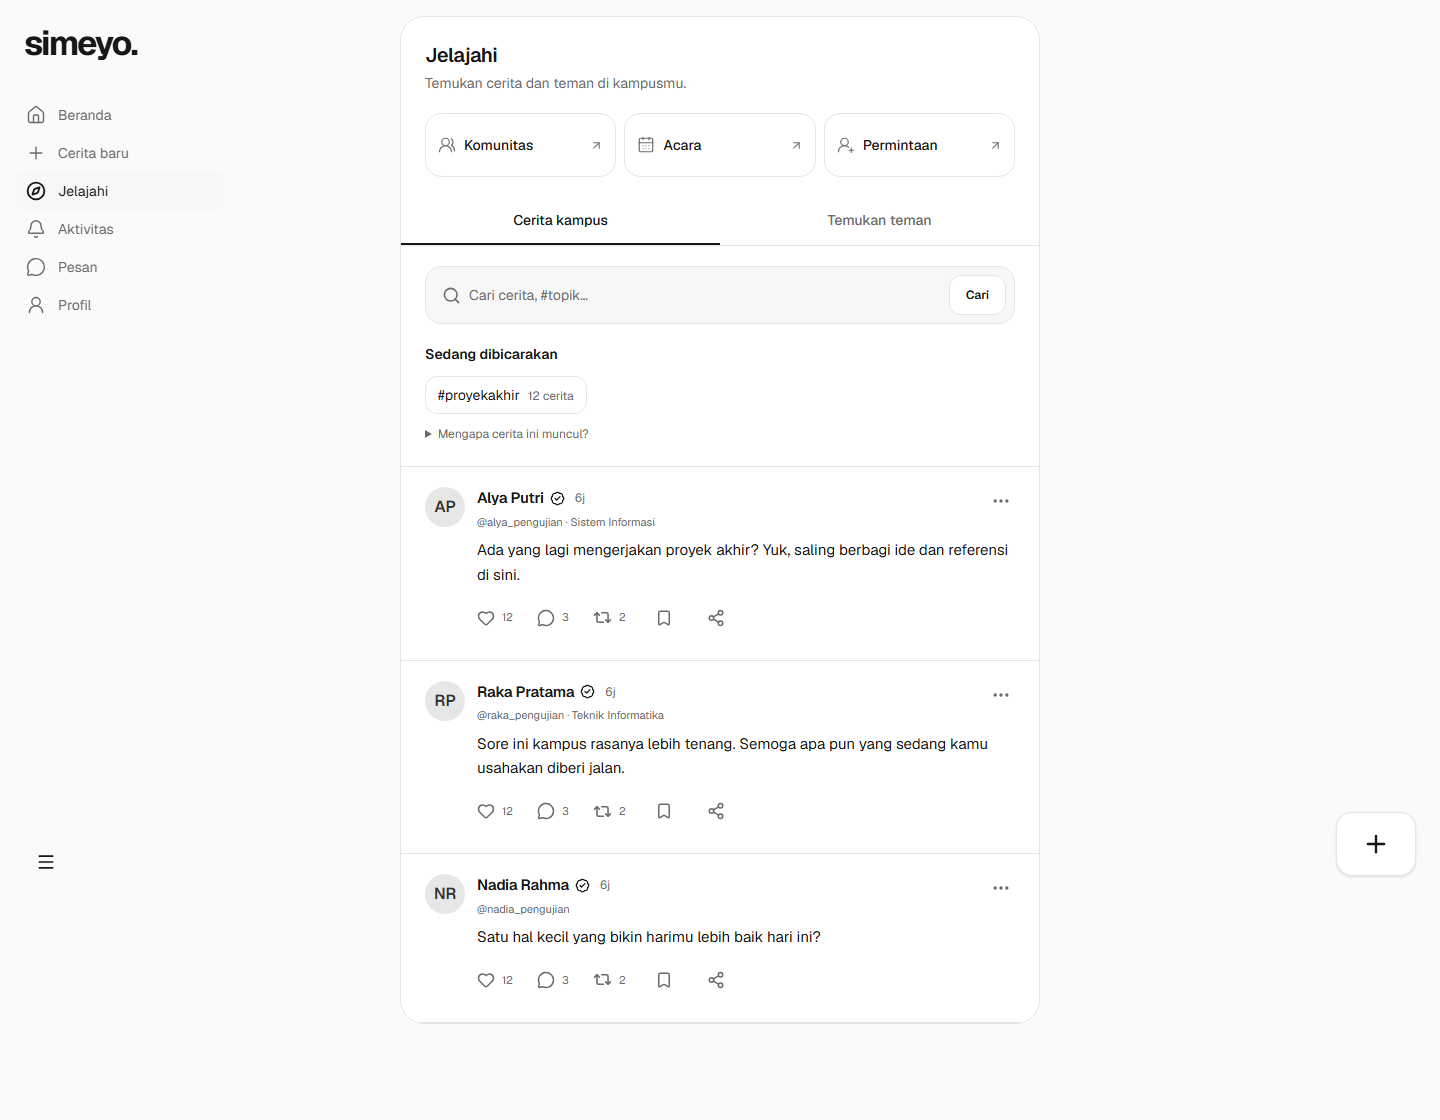
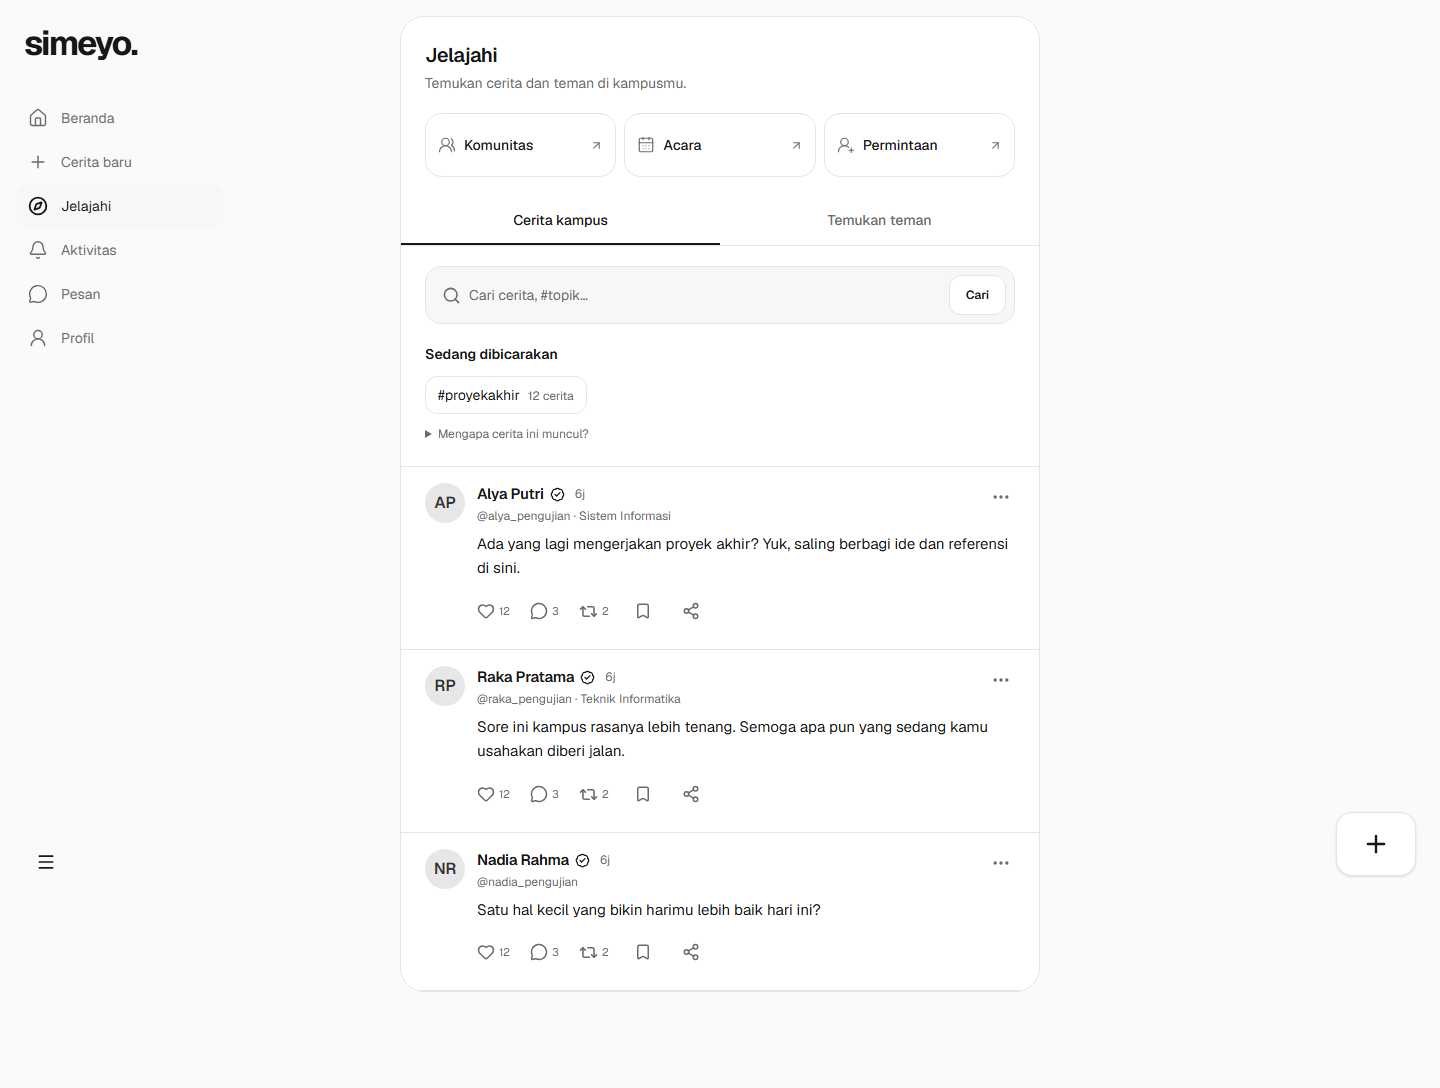
fix: unify form styling and responsive social layouts

diff --git a/apps/web/tests/feed-experience.spec.ts b/apps/web/tests/feed-experience.spec.ts
@@ -185,7 +185,7 @@ test("messaging supports a split inbox, recipient selection and safe send retry 
   await expect(page.getByLabel("Tulis pesan", { exact: true })).toHaveValue("");
   await expect(page.getByRole("log").getByText("Halo Raka!")).toBeVisible();
   expect(await page.evaluate(() => document.documentElement.scrollWidth <= window.innerWidth)).toBe(true);
-  await page.screenshot({ path: path.resolve(process.cwd(), "../../docs/testing/screenshots/messages-mobile-dark.png") });
+  await page.screenshot({ path: path.resolve(process.cwd(), "../../docs/testing/screenshots/messages-mobile-dark.png"), animations: "disabled" });
   expect((await new AxeBuilder({ page }).analyze()).violations).toEqual([]);
   await page.getByRole("link", { name: "Semua pesan", exact: true }).click();
   await expect(page.getByLabel("Cari percakapan", { exact: true })).toBeVisible();
@@ -249,6 +249,41 @@ test("revoked messaging access hides cached history and composer", async ({ page
   await expect(page.getByLabel("Tulis pesan", { exact: true })).toHaveCount(0);
 });
 
+test("mobile chat fits above navigation and campus form controls have consistent styling", async ({ page }) => {
+  await fixtures(page);
+  await page.route("**/api/v1/conversations", route => route.fulfill({ json: { data: [], next_cursor: null } }));
+  await page.route("**/api/v1/conversations/42/messages", route => route.fulfill({ json: { data: [], user: { id: 902, name: "Raka Pratama", username: "raka_pengujian" }, can_send: true, next_cursor: null } }));
+  for (const viewport of [{ width: 320, height: 667 }, { width: 390, height: 844 }, { width: 844, height: 390 }]) {
+    await page.setViewportSize(viewport);
+    await page.goto("/messages/42");
+    await expect(page.getByLabel("Tulis pesan", { exact: true })).toBeVisible();
+    const send = await page.getByRole("button", { name: "Kirim pesan", exact: true }).boundingBox();
+    const navigation = await page.getByRole("navigation", { name: "Navigasi seluler" }).isVisible()
+      ? await page.getByRole("navigation", { name: "Navigasi seluler" }).boundingBox() : null;
+    expect(send!.y + send!.height).toBeLessThanOrEqual(navigation?.y ?? viewport.height);
+    expect(await page.evaluate(() => document.documentElement.scrollHeight)).toBeLessThanOrEqual(viewport.height + 1);
+    if (viewport.width >= 768) await expect(page.getByRole("navigation", { name: "Navigasi utama" }).getByRole("link", { name: "Pesan", exact: true })).toHaveAttribute("aria-current", "page");
+    await page.screenshot({ path: path.resolve(process.cwd(), `../../docs/testing/screenshots/chat-fit-${viewport.width}.png`), animations: "disabled" });
+  }
+  await page.setViewportSize({ width: 390, height: 844 });
+  await page.goto("/communities");
+  await page.getByRole("button", { name: "Komunitas baru", exact: true }).click();
+  const input = page.getByLabel("Nama komunitas");
+  await expect(input).toBeVisible();
+  const style = await input.evaluate(element => { const style = getComputedStyle(element); return { border: style.borderTopWidth, radius: style.borderRadius, font: style.fontSize }; });
+  expect(style).toEqual({ border: "1px", radius: "12px", font: "16px" });
+  await page.screenshot({ path: path.resolve(process.cwd(), "../../docs/testing/screenshots/community-form-mobile.png"), animations: "disabled" });
+  await page.goto("/home");
+  await page.getByRole("button", { name: "Tulis cerita", exact: true }).click();
+  const dialog = page.getByRole("dialog", { name: "Cerita baru", exact: true });
+  await expect(dialog).toBeVisible();
+  const bounds = await dialog.boundingBox();
+  expect(bounds!.x).toBe(0);
+  expect(Math.round(bounds!.y + bounds!.height)).toBe(844);
+  await expect(dialog.getByRole("button", { name: "Bagikan", exact: true })).toBeVisible();
+  await page.screenshot({ path: path.resolve(process.cwd(), "../../docs/testing/screenshots/composer-mobile-sheet.png"), animations: "disabled" });
+});
+
 test("explore stays readable across sizes and supports topic search and people", async ({ page }) => {
   await fixtures(page);
   await page.goto("/explore");
@@ -260,7 +295,7 @@ test("explore stays readable across sizes and supports topic search and people",
       await page.evaluate((theme) => document.documentElement.dataset.theme = theme, theme);
       expect(await page.evaluate(() => document.documentElement.scrollWidth <= window.innerWidth)).toBe(true);
       await expect(page.getByRole("link", { name: "Komunitas", exact: true })).toBeVisible();
-      await page.screenshot({ path: path.resolve(process.cwd(), `../../docs/testing/screenshots/explore-${width}-${theme}.png`), fullPage: true });
+      await page.screenshot({ path: path.resolve(process.cwd(), `../../docs/testing/screenshots/explore-${width}-${theme}.png`), fullPage: true, animations: "disabled" });
     }
   }
   await page.getByRole("button", { name: "#proyekakhir" }).click();
@@ -314,6 +349,7 @@ test("centered feed, compact composer, keyboard tabs and menus work across sizes
             `../../docs/testing/screenshots/feed-redesign-${width}-${theme}.png`,
           ),
           fullPage: true,
+          animations: "disabled",
         });
     }
   }
@@ -334,7 +370,7 @@ test("centered feed, compact composer, keyboard tabs and menus work across sizes
   const menuBox = await page.getByRole("menu", { name: "Menu akun" }).boundingBox();
   expect(menuBox!.y).toBeGreaterThanOrEqual(0);
   expect(menuBox!.y + menuBox!.height).toBeLessThan(box!.y);
-  await page.screenshot({ path: "../../docs/testing/screenshots/sidebar-bottom-menu.png" });
+  await page.screenshot({ path: "../../docs/testing/screenshots/sidebar-bottom-menu.png", animations: "disabled" });
   await page.getByRole("menuitem", { name: "Ringkas navigasi", exact: true }).click();
   const sidebar = page.getByRole("complementary", { name: "Navigasi akun", exact: true });
   expect((await sidebar.boundingBox())!.width).toBe(96);
@@ -463,6 +499,7 @@ test("modal keeps a draft until discard is confirmed and profile uses the same c
       "../../docs/testing/screenshots/feed-composer-modal.png",
     ),
     fullPage: true,
+    animations: "disabled",
   });
   await dialog.getByRole("button", { name: "Batal", exact: true }).click();
   await discard
@@ -486,6 +523,7 @@ test("modal keeps a draft until discard is confirmed and profile uses the same c
       "../../docs/testing/screenshots/profile-redesign-desktop.png",
     ),
     fullPage: true,
+    animations: "disabled",
   });
   await page.getByRole("button", { name: "Tulis cerita", exact: true }).click();
   await expect(dialog).toBeVisible();

diff --git a/apps/web/src/app/globals.css b/apps/web/src/app/globals.css
@@ -11,6 +11,8 @@
   --accent-hover: #333333;
   --accent-foreground: #ffffff;
   --avatar-foreground: #333333;
+  --mobile-nav-height: calc(72px + env(safe-area-inset-bottom, 0px));
+  color-scheme: light;
 }
 
 @theme inline {
@@ -40,16 +42,20 @@ body {
   font-family: var(--font-geist-sans), Arial, Helvetica, sans-serif;
 }
 
-.message-workspace { min-height: calc(100dvh - 160px); }
-.message-detail { flex-direction: column; height: calc(100dvh - 160px); }
+.message-frame { display: flex; height: 100dvh; flex-direction: column; padding-bottom: var(--mobile-nav-height); }
+.message-frame > main { min-height: 0; flex: 1; }
+.message-workspace { height: 100%; min-height: 0; }
+.message-detail { min-height: 0; flex-direction: column; height: 100%; overflow: hidden; }
+.message-list { min-height: 0; height: 100%; overflow-y: auto; }
+.mobile-header { height: 64px; flex-shrink: 0; }
+.mobile-header > a { font-size: 28px; }
+.mobile-navigation { height: var(--mobile-nav-height); padding: 8px 8px calc(8px + env(safe-area-inset-bottom, 0px)); }
 @media (min-width: 768px) {
   .app-frame[data-messaging="true"] { padding-left: 0; }
-  .message-frame { margin-left: 96px; }
-  .message-workspace { min-height: 100dvh; }
-  .message-detail { height: 100dvh; }
+  .message-frame { margin-left: 96px; padding-bottom: 0; }
 }
 @media (min-width: 1024px) {
-  .message-workspace { display: grid; grid-template-columns: 340px minmax(0, 1fr); height: 100dvh; }
+  .message-workspace { display: grid; grid-template-columns: 340px minmax(0, 1fr); grid-template-rows: minmax(0, 1fr); }
   .message-list { overflow-y: auto; border-right: 1px solid var(--border); }
 }
 @media (min-width: 1280px) {
@@ -128,6 +134,30 @@ button:disabled {
   outline: 2px solid color-mix(in srgb, var(--foreground) 15%, transparent);
   outline-offset: 0;
 }
+@layer components {
+  .input {
+    display: block;
+    width: 100%;
+    min-height: 44px;
+    border: 1px solid var(--border);
+    border-radius: 12px;
+    background: var(--surface);
+    color: var(--foreground);
+    padding: 11px 14px;
+    font-size: 16px;
+    line-height: 1.5;
+    transition: border-color 160ms ease, box-shadow 160ms ease;
+  }
+  .input::placeholder { color: var(--muted); }
+  .input:focus-visible {
+    border-color: var(--foreground);
+    outline: none;
+    box-shadow: 0 0 0 3px color-mix(in srgb, var(--foreground) 10%, transparent);
+  }
+  .input:disabled { opacity: .55; cursor: not-allowed; }
+  select.input { padding-right: 32px; }
+  @media (min-width: 768px) { .input { font-size: 14px; } }
+}
 .form-label {
   display: block;
   margin-bottom: 8px;
@@ -196,17 +226,17 @@ button:disabled {
   .app-frame:not([data-collapsed="true"]) .sidebar-wordmark { display: block; }
   .app-frame:not([data-collapsed="true"]) .sidebar-mark { display: none; }
   .app-frame:not([data-collapsed="true"]) .rail-label { display: inline; }
-  .app-frame:not([data-collapsed="true"]) .rail-link { width: 100%; min-height: 38px; justify-content: flex-start; gap: 12px; padding: 6px 10px; border-radius: 9px; font-size: 14px; }
+  .app-frame:not([data-collapsed="true"]) .rail-link { width: 100%; min-height: 44px; justify-content: flex-start; gap: 13px; padding: 8px 12px; border-radius: 12px; font-size: 14px; }
   .app-frame:not([data-collapsed="true"]) .rail-link svg { width: 20px; height: 20px; }
 }
 .post-action {
   display: inline-flex;
   min-height: 44px;
-  min-width: 44px;
+  min-width: 36px;
   align-items: center;
   justify-content: center;
-  gap: 7px;
-  padding: 8px;
+  gap: 4px;
+  padding: 8px 4px;
   border-radius: 12px;
   font-size: 11px;
 }

diff --git a/apps/web/src/components/app-shell.tsx b/apps/web/src/components/app-shell.tsx
@@ -74,6 +74,7 @@ function AuthenticatedShell({ children }: { children: React.ReactNode }) {
   const { data: user, isPending, error, refetch } = useMe();
   const router = useRouter();
   const pathname = usePathname();
+  const isActive = (href: string) => pathname === href || (href !== "/home" && pathname.startsWith(`${href}/`));
   const client = useQueryClient();
   const toast = useToast();
   const [confirm, setConfirm] = useState(false);
@@ -205,12 +206,12 @@ function AuthenticatedShell({ children }: { children: React.ReactNode }) {
                 }
                 title={n.label}
                 aria-label={n.label}
-                className={`rail-link ${pathname === n.href ? "active" : ""}`}
-                aria-current={pathname === n.href ? "page" : undefined}
+                className={`rail-link ${isActive(n.href) ? "active" : ""}`}
+                aria-current={isActive(n.href) ? "page" : undefined}
               >
                 <n.icon
                   size={25}
-                  strokeWidth={pathname === n.href ? 2.2 : 1.7}
+                  strokeWidth={isActive(n.href) ? 2.2 : 1.7}
                 />
                 <span className="rail-label">{n.label}</span>
               </Link>
@@ -227,7 +228,7 @@ function AuthenticatedShell({ children }: { children: React.ReactNode }) {
         </div>
       </aside>
       <div className={pathname.startsWith("/messages") ? "message-frame min-w-0 pb-24 md:pb-0" : "mx-auto w-full min-w-0 max-w-[640px] pb-24"}>
-        <header className="sticky top-0 z-20 flex items-center justify-between border-b border-[var(--border)] bg-[var(--surface)]/95 px-5 py-4 backdrop-blur-sm md:hidden">
+        <header className="mobile-header sticky top-0 z-20 flex items-center justify-between border-b border-[var(--border)] bg-[var(--background)]/95 px-4 backdrop-blur-sm md:hidden">
           <Brand />
           <div className="flex items-center">
             {user.verified && (
@@ -255,7 +256,7 @@ function AuthenticatedShell({ children }: { children: React.ReactNode }) {
         </main>
       </div>
       <nav
-        className="fixed bottom-0 left-0 right-0 z-30 flex justify-around border-t border-[var(--border)] bg-[var(--surface)] px-2 pb-[max(8px,env(safe-area-inset-bottom))] pt-2 md:hidden"
+        className="mobile-navigation fixed bottom-0 left-0 right-0 z-30 flex justify-around border-t border-[var(--border)] bg-[var(--background)]/95 backdrop-blur-md md:hidden"
         aria-label="Navigasi seluler"
       >
         {mobileNav.map((n) => (
@@ -270,8 +271,8 @@ function AuthenticatedShell({ children }: { children: React.ReactNode }) {
                 : undefined
             }
             key={n.href}
-            className={`flex min-h-12 min-w-12 flex-col items-center justify-center gap-1 text-[10px] ${pathname === n.href ? "text-[var(--accent)]" : "text-[var(--muted)]"}`}
-            aria-current={pathname === n.href ? "page" : undefined}
+            className={`flex min-h-12 min-w-12 flex-col items-center justify-center gap-1 rounded-xl text-[11px] ${isActive(n.href) ? "font-medium text-[var(--accent)]" : "text-[var(--muted)]"}`}
+            aria-current={isActive(n.href) ? "page" : undefined}
           >
             <n.icon size={21} />
             {n.label}

diff --git a/apps/web/src/components/social/post-card.tsx b/apps/web/src/components/social/post-card.tsx
@@ -132,7 +132,7 @@ export function PostCard({
   return (
     <article
       data-post-id={post.id}
-      className={`border-b border-[var(--border)] px-5 py-5 sm:px-6 ${detail ? "sm:py-6" : "transition-colors hover:bg-[var(--soft)]/40"}`}
+      className={`border-b border-[var(--border)] px-4 py-4 sm:px-6 ${detail ? "sm:py-6" : "transition-colors hover:bg-[var(--soft)]/40"}`}
     >
       {post.reposted_by && (
         <p className="mb-3 pl-12 text-[11px] text-[var(--muted)]">
@@ -157,23 +157,23 @@ export function PostCard({
         <div className="min-w-0 flex-1">
           <header className="mb-2 flex items-start justify-between gap-2">
             <div className="min-w-0">
-              <div className="flex flex-wrap items-center gap-1.5">
+              <div className="flex min-w-0 items-center gap-1.5">
                 <Link
                   href={`/u/${post.author.username}`}
-                  className="text-[15px] font-semibold tracking-[-.015em] hover:underline"
+                  className="truncate text-[14px] font-semibold tracking-[-.015em] hover:underline sm:text-[15px]"
                 >
                   {post.author.name}
                 </Link>
                 {post.author.verified && (
                   <BadgeCheck
                     size={15}
-                    className="text-[var(--accent)]"
+                    className="shrink-0 text-[var(--accent)]"
                     aria-label="Afiliasi terverifikasi"
                   />
                 )}
                 <Link
                   href={`/thread/${post.id}`}
-                  className="ml-1 text-xs text-[var(--muted)]"
+                  className="ml-1 shrink-0 text-xs text-[var(--muted)]"
                 >
                   <time
                     dateTime={post.created_at}
@@ -183,7 +183,7 @@ export function PostCard({
                   </time>
                 </Link>
               </div>
-              <p className="mt-1 text-[11px] text-[var(--muted)]">
+              <p className="mt-0.5 truncate text-xs text-[var(--muted)]">
                 @{post.author.username}
                 {post.author.department && ` · ${post.author.department}`}
                 {post.edited_at && " · Diedit"}
@@ -294,7 +294,7 @@ export function PostCard({
               )}
             </Link>
           )}
-          <div className="-ml-2 mt-2 flex items-center gap-1 sm:gap-2">
+          <div className="-ml-1 mt-2 flex items-center justify-between gap-0 sm:justify-start sm:gap-3">
             <button
               className={`post-action ${post.liked ? "text-[var(--foreground)]" : "text-[var(--muted)]"}`}
               disabled={interaction.pending}

diff --git a/apps/web/src/components/ui/dialog.tsx b/apps/web/src/components/ui/dialog.tsx
@@ -27,7 +27,7 @@ export function ConfirmDialog({
           className={cn(
             "fixed left-1/2 top-1/2 z-50 max-h-[90dvh] w-[calc(100%-2rem)] max-w-lg -translate-x-1/2 -translate-y-1/2 overflow-y-auto rounded-3xl border border-[var(--border)] bg-[var(--surface)] p-6 shadow-xl",
             className,
-            variant === "composer" && "p-0",
+            variant === "composer" && "p-0 max-sm:bottom-0 max-sm:top-auto max-sm:max-h-[calc(100dvh-24px)] max-sm:w-full max-sm:translate-y-0 max-sm:rounded-b-none max-sm:pb-[env(safe-area-inset-bottom)]",
           )}
         >
           <DialogPrimitive.Title

diff --git a/apps/web/src/components/social/thread-composer.tsx b/apps/web/src/components/social/thread-composer.tsx
@@ -79,7 +79,7 @@ export function ThreadComposerTrigger() {
   const open = useThreadComposer();
   if (!user?.verified || !user.email_verified) return null;
   return (
-    <div className="flex items-center gap-3 border-b border-[var(--border)] px-5 py-5 sm:px-6">
+    <div className="flex items-center gap-3 border-b border-[var(--border)] px-4 py-4 sm:px-6">
       <Avatar name={user.name} url={user.avatar_url} size={36} />
       <button
         type="button"

diff --git a/apps/web/src/components/social/home-feed.tsx b/apps/web/src/components/social/home-feed.tsx
@@ -13,7 +13,7 @@ export function HomeFeed() {
   const refreshing = useIsFetching({ queryKey: ["feed", tab] }) > 0;
   return (
     <>
-      <header className="flex h-16 items-center justify-between px-5 sm:px-6">
+      <header className="flex h-12 items-center justify-between px-4 sm:px-6 md:h-16">
         <div className="min-w-0 pr-3">
           <h1 className="text-lg font-semibold tracking-tight">Beranda</h1>
         </div>

diff --git a/apps/web/src/components/social/profile-view.tsx b/apps/web/src/components/social/profile-view.tsx
@@ -84,7 +84,7 @@ export function ProfileView({ username }: { username?: string }) {
     );
   return (
     <>
-      <header className="flex h-16 items-center px-6">
+      <header className="flex h-12 items-center px-5 md:h-16 md:px-6">
         <h1 className="text-lg font-semibold">{owner ? "Profilmu" : u.name}</h1>
       </header>
       <div className="feed-surface">

diff --git a/PROGRESS.md b/PROGRESS.md
@@ -149,3 +149,6 @@ Deployment checkpoint: maturity-578e8af is active after new images built and a p
 
 Final maturity checkpoint: full browser 38768254369 passed 28 tests on ff7ec14; privacy/messaging 38769658093 passed 3 overlapping real-API tests on a0d40cf. Complete ff7ec14 standard CI passed all four jobs, including PostgreSQL, recovery and 960-request load (zero failures, p95 67-193 ms). Public-assets UI passed 11 tests on a0d40cf (39.0 seconds). Final style-only 671f921 is deployed on web/gateway and its 320px secondary-page/accessibility check passed (24.3 seconds); API/worker/Reverb remain maturity-578e8af. Latest automatic standard CI 38770476610 is pending at this checkpoint. Real campus Google/inbox checks were explicitly deferred by the owner; native/push, off-host recovery and external alert routing remain open. Evidence: docs/testing/maturity-2026-10-15.md.
 
+
+UI layout correction: confirmed missing .input styling against public assets with fictional accounts. Added layered form-control styles, compact mobile headers/feed rows, active nested-route navigation, shared viewport/nav sizing for DM, constrained desktop chat grid and mobile composer sheet. Local UI 12 passed (38.9 seconds) after a desktop grid regression was caught and corrected before deployment. Lint/type checking/build passed. New server/public verification is pending; no API, schema or data changes.
+

diff --git a/CHANGELOG.md b/CHANGELOG.md
@@ -85,3 +85,6 @@ Native-mobile and v1.0.0 releases are not declared.
 
 - Hide cached conversations/composer after access errors and clear DM/activity caches after blocking. Keep narrow profile action buttons aligned. Real API privacy regressions and public UI checks passed; see maturity test evidence for source-specific scope.
 
+
+- Restored missing shared form styles and corrected chat viewport sizing. Refined mobile header/navigation, feed density, nested-route selection and mobile composer presentation.
+
